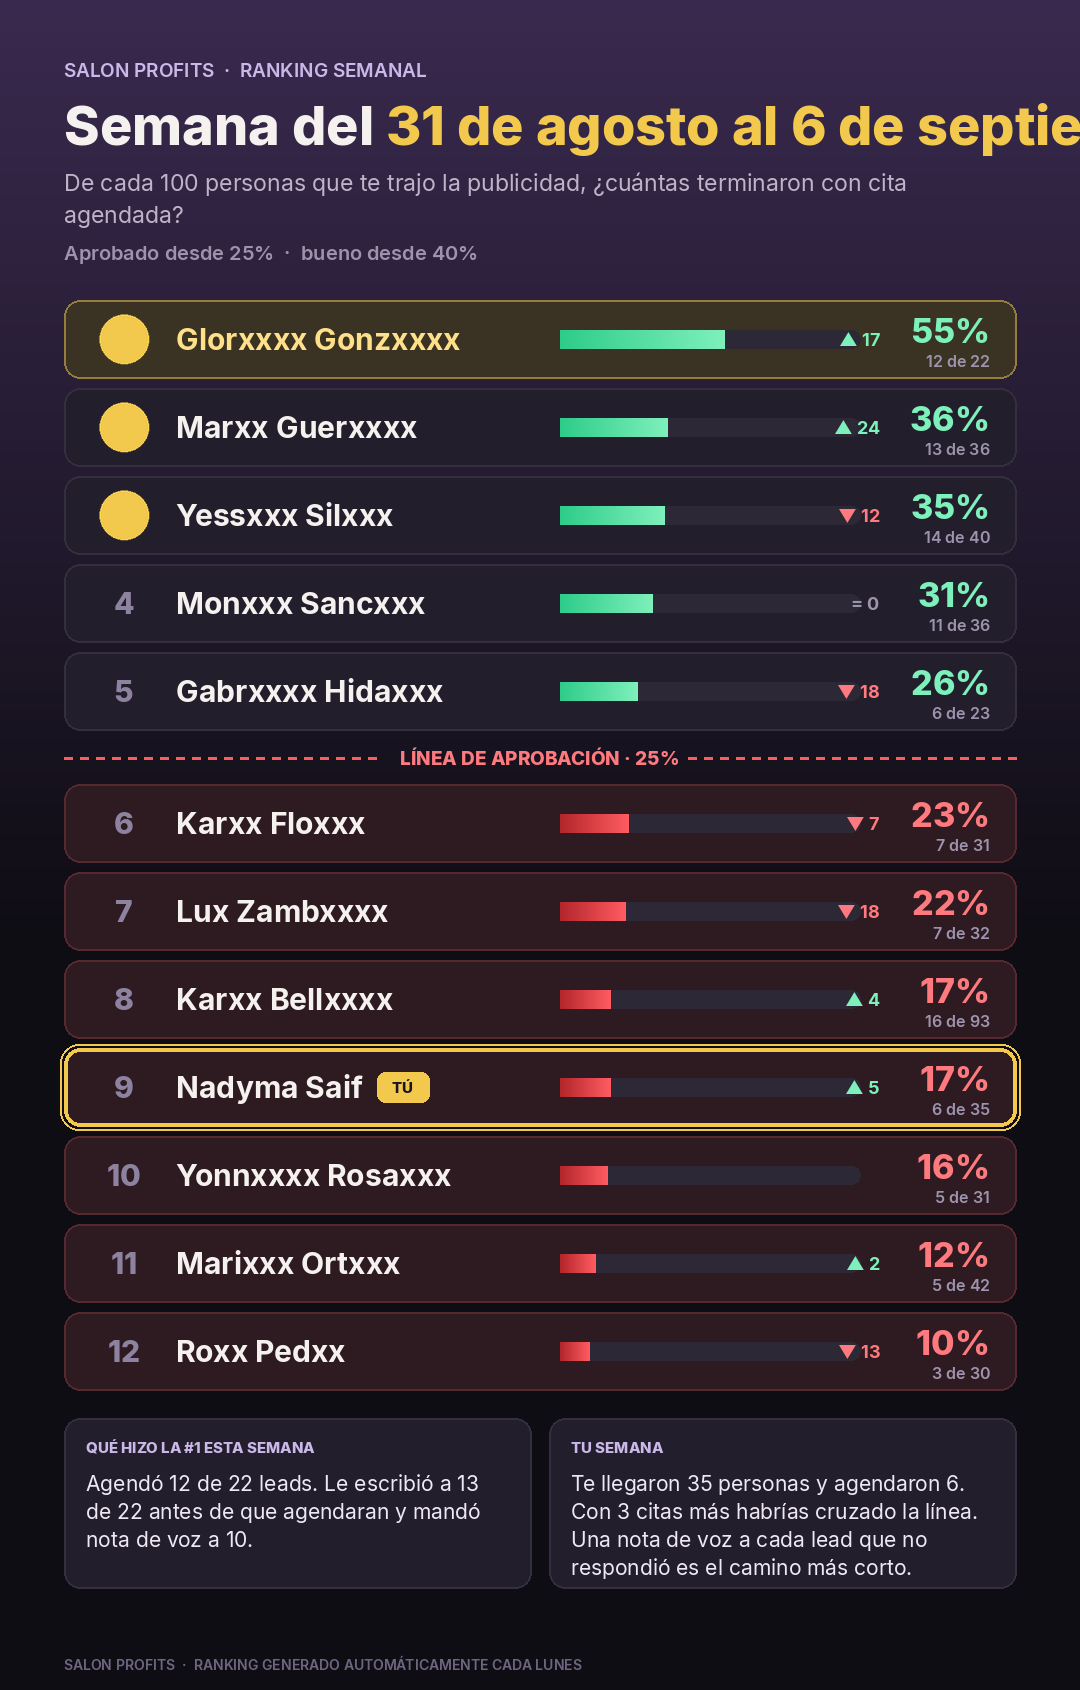
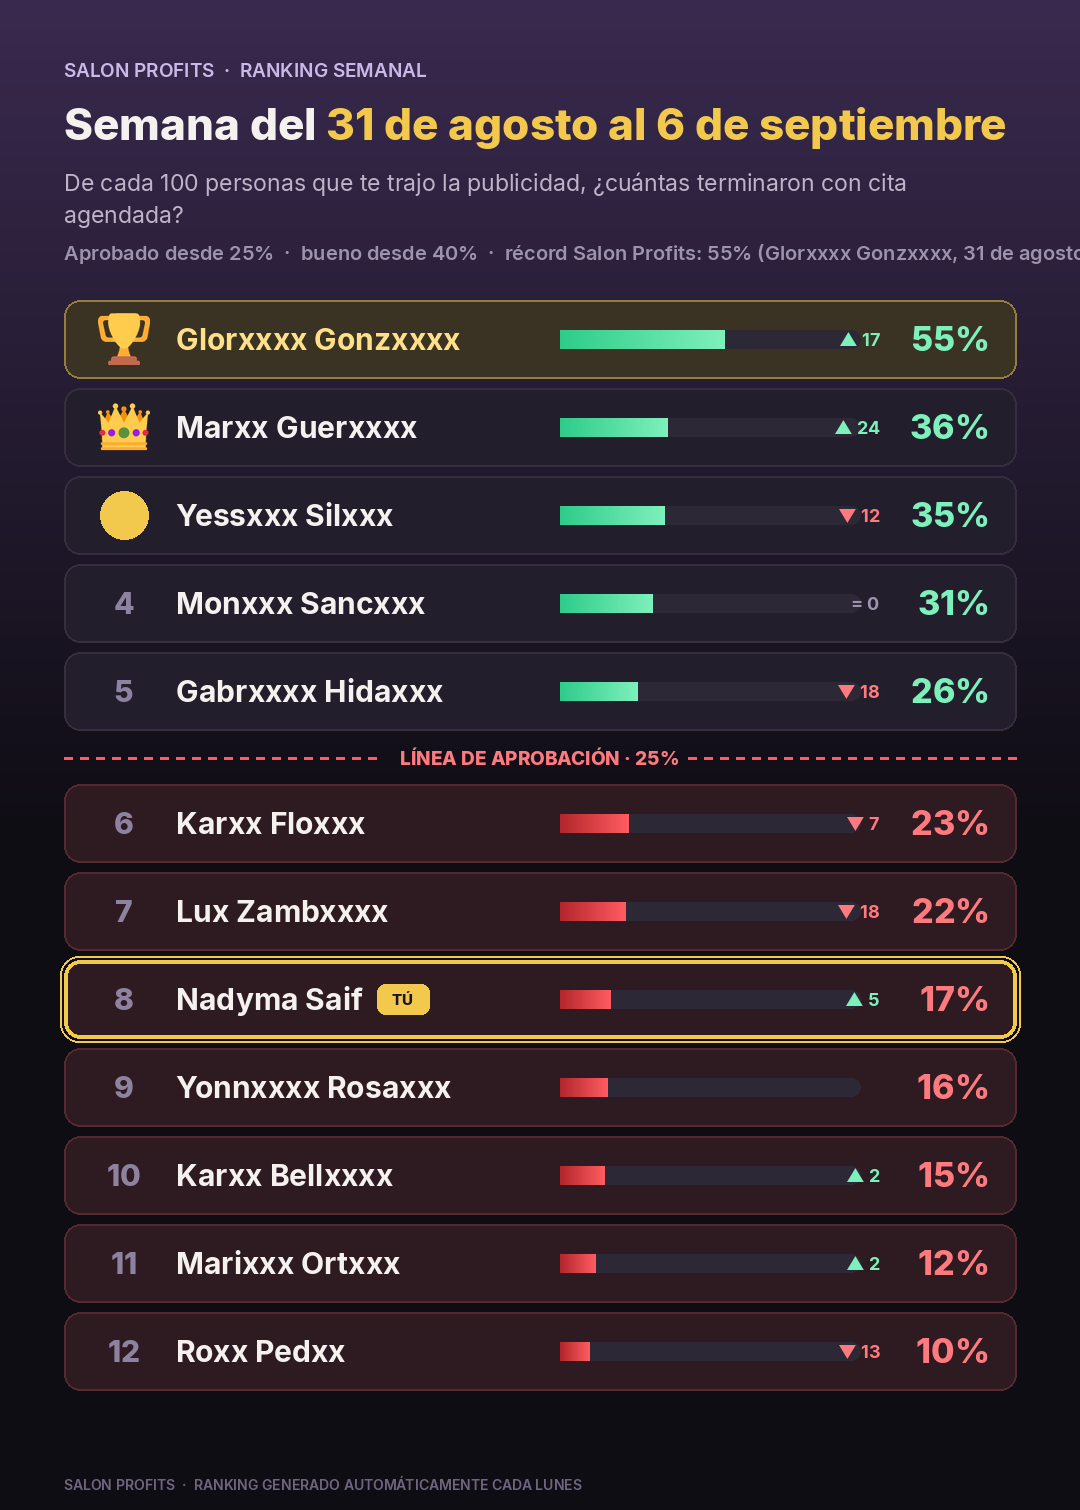
Ranking semana 31 de agosto al 6 de septiembre

diff --git a/_tools/ranking_semanal.py b/_tools/ranking_semanal.py
@@ -1,43 +1,30 @@
 #!/usr/bin/env python3
+"""Ranking semanal de agendamiento — Salon Profits. v5.
+
+Recibe los numeros ya medidos y produce un PNG por clienta destinataria, una
+imagen general para Jesus y Rossana, y resultado.json con puestos, zona y los
+textos de WhatsApp. No mide nada: los numeros llegan de gestion_semanal.py.
+
+Cambios v5 (medidos el 7 sep 2026, no estimados):
+  - fondo(): degradado por columna de 1 px estirada. Salida IDENTICA byte a
+    byte, 53x mas rapido (1.54 s -> 0.029 s para 13 imagenes).
+  - se elimino el bloque mask/tr/ImageChopsBox del dibujo de la barra: estaba
+    verificado como NO-OP (reservaba ~4 lienzos completos por barra y no
+    cambiaba un solo pixel). Salida IDENTICA, 8x mas rapido en esa seccion.
+  - --destinatarias: solo se renderiza PNG personal para quien de verdad lo
+    recibe. Las demas se siguen midiendo y rankeando (cuentan para el ranking y
+    para el record) pero no se publica una imagen con su nombre que nadie abre.
 """
-Ranking semanal de agendamiento — Salon Profits.
-
-Recibe los numeros ya medidos (una fila por clienta) y produce:
-  - una imagen PNG por clienta rankeable, con SU nombre completo y la marca TU
-    y las demas con el nombre a medias;
-  - una imagen general (nadie resaltado) para Jesus y Rossana;
-  - resultado.json con puestos, zona, quien se envia y quien no, y por que.
-
-No mide nada: los numeros llegan de gestion_semanal.py. No usa navegador:
-solo Pillow, asi corre en cualquier entorno.
-
-Uso:
-  ranking_semanal.py --datos ranking.json --etiqueta "1 al 7 de septiembre" \
-      --out /tmp/ranking/out --assets /ruta/assets [--record record.json]
-
-ranking.json = lista de objetos:
-  {"slug": "rosa-pedre", "nombre": "Rosa Pedre", "leads": 21, "agendaron": 4,
-   "tasa_ant": 15 | null, "gest_antes": 3 | null, "notas_voz": 0 | null,
-   "ventana_dias": 7}
-record.json (opcional) = {"tasa": 58, "nombre": "Karla Bellorin", "etiqueta": "3 al 9 ago"}
-
-Reglas (decididas el 7 sep 2026):
-  LINEA = 25   -> aprobado desde 25%. Verde arriba, rojo abajo. NO es la mitad
-                  del grupo: si todas estan mal, todas salen en rojo.
-  MIN_LEADS = 21 -> con menos leads en la ventana no se rankea ni se le envia.
-  Copa, corona y medalla SOLO en zona verde. Sin nadie en verde: copa desierta.
-  Nombres: primer nombre + primer apellido, cada palabra con su segunda mitad
-  tapada con x (mitad de palabra). La destinataria ve su nombre completo + TU.
-"""
-import argparse, hashlib, io, json, math, os, sys, urllib.request, zipfile
+import argparse, base64, hashlib, io, json, math, os, sys, urllib.request, zipfile
 from PIL import Image, ImageDraw, ImageFont
+
+VERSION = 5
 
 LINEA = 25
 BUENO = 40
 MIN_LEADS = 21
 W = 1080
 
-# --- colores -----------------------------------------------------------------
 BG_TOP, BG_BOT = (58, 42, 79), (15, 13, 20)
 INK, MUT, LAV = (244, 241, 238), (157, 147, 173), (201, 184, 232)
 GOLD, GOLD_D = (242, 201, 76), (26, 21, 34)
@@ -48,12 +35,15 @@ ROW_BG, ROW_LINE = (35, 30, 44), (52, 46, 62)
 ROW_BAD_BG, ROW_BAD_LINE = (46, 26, 33), (88, 40, 48)
 TRACK = (44, 40, 54)
 
-ICONOS = {1: "1f3c6", 2: "1f451", 3: "1f396"}   # trofeo, corona, medalla (Twemoji)
-CDN = "https://cdn.jsdelivr.net/gh/twitter/twemoji@14.0.2/assets/72x72/{}.png"
+ICONOS = {1: "1f3c6", 2: "1f451", 3: "1f396"}
 INTER_ZIP = "https://github.com/rsms/inter/releases/download/v4.0/Inter-4.0.zip"
+ICONOS_B64 = {
[3 lines of base64/hex data omitted]
+}
 
 
-# --- assets ------------------------------------------------------------------
 def asegurar_assets(d):
     os.makedirs(d, exist_ok=True)
     faltan = [w for w in ("Bold", "ExtraBold", "SemiBold", "Regular")
@@ -70,11 +60,8 @@ def asegurar_assets(d):
             print(f"aviso: sin Inter ({e}); uso la fuente por defecto", file=sys.stderr)
     for cod in ICONOS.values():
         p = os.path.join(d, f"{cod}.png")
-        if not os.path.exists(p):
-            try:
-                open(p, "wb").write(urllib.request.urlopen(CDN.format(cod), timeout=30).read())
-            except Exception as e:
-                print(f"aviso: sin icono {cod} ({e})", file=sys.stderr)
+        if not os.path.exists(p) or os.path.getsize(p) == 0:
+            open(p, "wb").write(base64.b64decode(ICONOS_B64[cod]))
 
 
 def fuente(d, peso, tam):
@@ -89,14 +76,15 @@ def fuente(d, peso, tam):
 
 def icono(d, puesto, tam):
     p = os.path.join(d, f"{ICONOS[puesto]}.png")
-    if os.path.exists(p):
+    try:
         return Image.open(p).convert("RGBA").resize((tam, tam), Image.LANCZOS)
+    except Exception:
+        pass
     im = Image.new("RGBA", (tam, tam), (0, 0, 0, 0))
     ImageDraw.Draw(im).ellipse([2, 2, tam - 2, tam - 2], fill=GOLD)
     return im
 
 
-# --- nombres -----------------------------------------------------------------
 def tapar(pal):
     n = len(pal)
     k = math.ceil(n / 2)
@@ -112,7 +100,6 @@ def nombre_tapado(nombre):
     return tapar(pal[0]) + " " + tapar(pal[1])
 
 
-# --- ranking -----------------------------------------------------------------
 def rankear(filas):
     rank, fuera = [], []
     for f in filas:
@@ -130,16 +117,15 @@ def rankear(filas):
     return rank, fuera
 
 
-# --- dibujo ------------------------------------------------------------------
 def fondo(h):
-    im = Image.new("RGB", (W, h), BG_BOT)
-    px = im.load()
+    """Degradado vertical. Misma formula que v4; una columna de 1 px estirada.
+    Verificado byte a byte contra el bucle por pixel de v4."""
+    col = Image.new("RGB", (1, h), BG_BOT)
+    px = col.load()
     for y in range(h):
         t = min(1.0, y / (h * 0.55))
-        c = tuple(int(BG_TOP[i] * (1 - t) + BG_BOT[i] * t) for i in range(3))
-        for x in range(W):
-            px[x, y] = c
-    return im
+        px[0, y] = tuple(int(BG_TOP[i] * (1 - t) + BG_BOT[i] * t) for i in range(3))
+    return col.resize((W, h), Image.NEAREST)
 
 
 def texto(dr, xy, s, f, fill, anchor="la"):
@@ -164,23 +150,26 @@ def envolver(f, s, maxw):
     return out
 
 
-def dibujar(rank, etiqueta, me_slug, assets, record=None, ventana_dias=7):
+def dibujar(rank, etiqueta, me_slug, assets, record=None, ventana_dias=7, tapar_nombres=True):
     F = lambda p, t: fuente(assets, p, t)
     n = len(rank)
     ROW_H, GAP = 78, 10
     top_h = 300
     linea_h = 44
-    foot_h = 250 if me_slug else 150
+    foot_h = 70
     h = top_h + n * (ROW_H + GAP) + linea_h + foot_h + 40
     im = fondo(h)
     dr = ImageDraw.Draw(im)
 
-    # cabecera
     texto(dr, (64, 58), "SALON PROFITS  ·  RANKING SEMANAL", F("SemiBold", 19), LAV)
     tit = "Semana del " if ventana_dias == 7 else "Últimas 2 semanas · "
-    f_h1 = F("ExtraBold", 54)
-    texto(dr, (64, 92), tit, f_h1, INK)
-    texto(dr, (64 + ancho(f_h1, tit), 92), etiqueta, f_h1, GOLD)
+    tam = 54
+    while tam > 30 and ancho(F("ExtraBold", tam), tit + etiqueta) > W - 128:
+        tam -= 2
+    f_h1 = F("ExtraBold", tam)
+    yt = 92 + (54 - tam) // 2
+    texto(dr, (64, yt), tit, f_h1, INK)
+    texto(dr, (64 + ancho(f_h1, tit), yt), etiqueta, f_h1, GOLD)
     f_sub = F("Regular", 23)
     sub = "De cada 100 personas que te trajo la publicidad, ¿cuántas terminaron con cita agendada?"
     y = 168
@@ -192,7 +181,6 @@ def dibujar(rank, etiqueta, me_slug, assets, record=None, ventana_dias=7):
         lin += f"  ·  récord Salon Profits: {record['tasa']}% ({nombre_tapado(record.get('nombre',''))}, {record.get('etiqueta','')})"
     texto(dr, (64, y + 8), lin, f_m, MUT)
 
-    # copa desierta
     y = top_h
     if n and not any(r["verde"] for r in rank):
         dr.rounded_rectangle([64, y - 14, W - 64, y + 40], 14, fill=(60, 30, 36), outline=(120, 50, 58), width=2)
@@ -204,7 +192,6 @@ def dibujar(rank, etiqueta, me_slug, assets, record=None, ventana_dias=7):
     linea_dibujada = False
     for r in rank:
         if not r["verde"] and not linea_dibujada:
-            # linea de aprobacion
             cy = y + linea_h // 2 - 4
             lab = f"LÍNEA DE APROBACIÓN · {LINEA}%"
             f_l = F("ExtraBold", 19)
@@ -227,23 +214,20 @@ def dibujar(rank, etiqueta, me_slug, assets, record=None, ventana_dias=7):
             dr.rounded_rectangle([60, y - 4, W - 60, y + ROW_H + 4], 19, outline=(242, 201, 76, 90), width=2)
 
         cy = y + ROW_H // 2
-        # puesto / premio
         if r["premio"]:
             ic = icono(assets, r["premio"], 52)
             im.paste(ic, (98, cy - 26), ic)
         else:
             texto(dr, (124, cy), str(r["puesto"]), f_pos, (141, 131, 160), "mm")
 
-        # nombre
         col_nom = (255, 224, 138) if r["premio"] == 1 else INK
-        nom = r["nombre"] if es_me else nombre_tapado(r["nombre"])
+        nom = r["nombre"] if (es_me or not tapar_nombres) else nombre_tapado(r["nombre"])
         texto(dr, (176, cy), nom, f_nom, col_nom, "lm")
         if es_me:
             x0 = 176 + ancho(f_nom, nom) + 14
             dr.rounded_rectangle([x0, cy - 15, x0 + 52, cy + 15], 8, fill=GOLD)
             texto(dr, (x0 + 26, cy), "TÚ", f_tag, GOLD_D, "mm")
 
-        # barra
         bx0, bx1 = 560, 860
         dr.rounded_rectangle([bx0, cy - 9, bx1, cy + 9], 9, fill=TRACK)
         wpx = max(18, int((bx1 - bx0) * min(r["tasa"], 100) / 100))
@@ -252,18 +236,14 @@ def dibujar(rank, etiqueta, me_slug, assets, record=None, ventana_dias=7):
             t = i / max(1, wpx - 1)
             c = tuple(int(c1[k] * (1 - t) + c2[k] * t) for k in range(3))
             dr.line([bx0 + i, cy - 9, bx0 + i, cy + 9], fill=c)
-        # tapar esquinas con la forma redondeada
-        mask = Image.new("L", (W, h), 0)
-        ImageDraw.Draw(mask).rounded_rectangle([bx0, cy - 9, bx0 + wpx, cy + 9], 9, fill=255)
-        tr = Image.new("RGB", (W, h), TRACK)
-        tr.paste(im, (0, 0), mask)
-        im.paste(tr, (0, 0), ImageChopsBox(mask, bx0, cy - 9, bx1, cy + 9))
-        dr = ImageDraw.Draw(im)
+        # v4 tenia aqui un bloque mask/tr/ImageChopsBox verificado como NO-OP: se elimino.
 
-        # porcentaje + delta
         col_p = VERDE2 if r["verde"] else ROJO_TXT
-        texto(dr, (W - 90, cy - 8), f"{r['tasa']}%", f_pct, col_p, "rm")
-        texto(dr, (W - 90, cy + 22), f"{r['agendaron']} de {r['leads']}", f_small, MUT, "rm")
+        if tapar_nombres:
+            texto(dr, (W - 90, cy), f"{r['tasa']}%", f_pct, col_p, "rm")
+        else:
+            texto(dr, (W - 90, cy - 8), f"{r['tasa']}%", f_pct, col_p, "rm")
+            texto(dr, (W - 90, cy + 22), f"{r['agendaron']} de {r['leads']}", f_small, MUT, "rm")
         ta = r.get("tasa_ant")
         if ta is not None:
             d = r["tasa"] - int(ta)
@@ -271,55 +251,29 @@ def dibujar(rank, etiqueta, me_slug, assets, record=None, ventana_dias=7):
             texto(dr, (W - 200, cy), s, f_delta, VERDE2 if d > 0 else ROJO_TXT if d < 0 else MUT, "rm")
         y += ROW_H + GAP
 
-    # pie
-    y += 18
-    f_bt, f_bp = F("ExtraBold", 15), F("Regular", 21)
-    top = rank[0] if rank else None
-    if me_slug:
-        me = next((r for r in rank if r["slug"] == me_slug), None)
-        cajas = []
-        if top:
-            cajas.append(("QUÉ HIZO LA #1 ESTA SEMANA", caja_top(top)))
-        if me:
-            cajas.append(("TU SEMANA", caja_me(me)))
-        cw = (W - 128 - 18) // 2 if len(cajas) == 2 else W - 128
-        x = 64
-        for t, p in cajas:
-            dr.rounded_rectangle([x, y, x + cw, y + 170], 16, fill=(35, 30, 44), outline=(52, 46, 62), width=2)
-            texto(dr, (x + 22, y + 20), t, f_bt, LAV)
-            yy = y + 52
-            for l in envolver(f_bp, p, cw - 44)[:4]:
-                texto(dr, (x + 22, yy), l, f_bp, (238, 232, 245)); yy += 28
-            x += cw + 18
-        y += 190
-    else:
-        f_g = F("Regular", 20)
-        texto(dr, (64, y), f"Versión general · {n} clientas rankeadas · sin resaltar a nadie", f_g, MUT)
-        y += 60
     texto(dr, (64, h - 34), "SALON PROFITS  ·  RANKING GENERADO AUTOMÁTICAMENTE CADA LUNES", F("SemiBold", 14), (111, 101, 128))
     return im
 
 
-def ImageChopsBox(mask, x0, y0, x1, y1):
-    """Mascara limitada a la caja de la barra: fuera de ahi no toca nada."""
-    m = Image.new("L", mask.size, 0)
-    m.paste(mask.crop((x0, y0, x1 + 1, y1 + 1)), (x0, y0))
-    return m
+def pct(a, b):
+    return round(100 * a / b) if b else 0
 
 
-def caja_top(t):
-    s = f"Agendó {t['agendaron']} de {t['leads']} leads."
+def texto_top(t, tu=False):
     ga, nv = t.get("gest_antes"), t.get("notas_voz")
+    suj = "Fuiste la #1 esta semana: " if tu else "Qué hizo la #1 esta semana: "
     if ga is not None:
-        s += f" Le escribió a {ga} de {t['leads']} antes de que agendaran"
-        s += f" y mandó nota de voz a {nv}." if nv is not None else "."
+        s = suj + ("le escribiste" if tu else "le escribió") + f" al {pct(ga, t['leads'])}% de " + ("tus" if tu else "sus") + " leads antes de que agendaran"
+        if nv is not None:
+            s += " y " + ("les mandaste" if tu else "les mandó") + f" nota de voz al {pct(nv, t['leads'])}%"
+        s += f". Así " + ("cerraste" if tu else "cerró") + f" con {t['tasa']}% de agendamiento."
     else:
-        s += " Pregunta gancho y nota de voz el mismo día que escriben: lo que enseñamos en la clase de seguimiento."
+        s = suj + ("cerraste" if tu else "cerró") + f" con {t['tasa']}% de agendamiento. Pregunta gancho y nota de voz el mismo día que escriben: lo que enseñamos en la clase de seguimiento."
     return s
 
 
-def caja_me(m):
-    s = f"Te llegaron {m['leads']} personas y agendaron {m['agendaron']}."
+def texto_me(m):
+    s = f"Tu semana: te llegaron {m['leads']} personas y agendaron {m['agendaron']}."
     falta = math.ceil(LINEA * m["leads"] / 100) - m["agendaron"]
     if m["tasa"] >= BUENO:
         s += " Estás en la zona buena. Sostenlo: la semana que viene te comparamos contigo misma."
@@ -327,20 +281,36 @@ def caja_me(m):
         falta2 = math.ceil(BUENO * m["leads"] / 100) - m["agendaron"]
         s += f" Pasaste la línea. Con {falta2} cita{'s' if falta2 != 1 else ''} más habrías llegado al {BUENO}%."
     else:
-        s += f" Con {falta} cita{'s' if falta != 1 else ''} más habrías cruzado la línea. Una nota de voz a cada lead que no respondió es el camino más corto."
+        s += f" Con {falta} cita{'s' if falta != 1 else ''} más habrías cruzado la línea del {LINEA}%. Una nota de voz a cada lead que no respondió es el camino más corto."
     return s
 
 
-# --- main --------------------------------------------------------------------
+def mensaje(r, rank, etiqueta, url, ventana_dias=7):
+    pila = r["nombre"].split()[0] if r["nombre"].split() else "hola"
+    cuando = f"de la semana del {etiqueta}" if ventana_dias == 7 else f"de las últimas 2 semanas ({etiqueta})"
+    top = rank[0]
+    partes = [
+        f"Hola {pila}, este es el ranking de agendamiento de Salon Profits {cuando}. "
+        f"Estás en el puesto {r['puesto']} de {len(rank)} con {r['tasa']}% de agendamiento ({r['agendaron']} de {r['leads']}).",
+        texto_top(top, tu=(top["slug"] == r["slug"])),
+        texto_me(r),
+        f"Si la imagen no carga, ábrela aquí: {url}",
+    ]
+    return "\n\n".join(partes)
+
+
 def main():
     p = argparse.ArgumentParser()
     p.add_argument("--datos", required=True)
-    p.add_argument("--etiqueta", required=True, help='ej. "1 al 7 de septiembre"')
+    p.add_argument("--etiqueta", required=True)
     p.add_argument("--out", required=True)
     p.add_argument("--assets", required=True)
     p.add_argument("--record")
     p.add_argument("--ventana-dias", type=int, default=7)
-    p.add_argument("--sal", default="", help="sal para el hash del nombre de archivo (URL no adivinable)")
+    p.add_argument("--sal", default="")
+    p.add_argument("--url-base", default="")
+    p.add_argument("--destinatarias", default="",
+                   help="slugs separados por coma que SI reciben WhatsApp. Vacio = todas.")
     a = p.parse_args()
 
     asegurar_assets(a.assets)
@@ -348,23 +318,34 @@ def main():
     filas = json.load(open(a.datos))
     record = json.load(open(a.record)) if a.record and os.path.exists(a.record) else None
     rank, fuera = rankear(filas)
+    dest = {s.strip() for s in a.destinatarias.split(",") if s.strip()}
 
     def archivo(slug):
         h = hashlib.sha256(f"{a.sal}|{slug}".encode()).hexdigest()[:8]
         return f"{slug}-{h}.png"
 
-    salida = {"rankeadas": rank, "sin_minimo": fuera, "archivos": {}, "ventana_dias": a.ventana_dias}
+    salida = {"rankeadas": rank, "sin_minimo": fuera, "archivos": {}, "mensajes": {},
+              "ventana_dias": a.ventana_dias, "version": VERSION, "sin_imagen": []}
     if rank:
-        dibujar(rank, a.etiqueta, None, a.assets, record, a.ventana_dias).save(os.path.join(a.out, archivo("general")), optimize=True)
+        dibujar(rank, a.etiqueta, None, a.assets, record, a.ventana_dias, tapar_nombres=False).save(
+            os.path.join(a.out, archivo("general")), optimize=True)
         salida["archivos"]["general"] = archivo("general")
         for r in rank:
+            if dest and r["slug"] not in dest:
+                salida["sin_imagen"].append(r["slug"])
+                continue
             nombre = archivo(r["slug"])
-            dibujar(rank, a.etiqueta, r["slug"], a.assets, record, a.ventana_dias).save(os.path.join(a.out, nombre), optimize=True)
+            dibujar(rank, a.etiqueta, r["slug"], a.assets, record, a.ventana_dias).save(
+                os.path.join(a.out, nombre), optimize=True)
             salida["archivos"][r["slug"]] = nombre
+            salida["mensajes"][r["slug"]] = mensaje(r, rank, a.etiqueta, f"{a.url_base}/{nombre}", a.ventana_dias)
     json.dump(salida, open(os.path.join(a.out, "resultado.json"), "w"), ensure_ascii=False, indent=2)
-    print(f"rankeadas {len(rank)} · sin minimo {len(fuera)} · imagenes {len(salida['archivos'])}")
+    print(f"v{VERSION} · rankeadas {len(rank)} · sin minimo {len(fuera)} · imagenes {len(salida['archivos'])}"
+          + (f" · sin imagen (no reciben) {len(salida['sin_imagen'])}" if salida["sin_imagen"] else ""))
     for r in rank:
-        print(f"  {r['puesto']:>2}. {r['nombre']:<24} {r['tasa']:>3}%  {r['agendaron']}/{r['leads']}  {'verde' if r['verde'] else 'rojo'}{'  premio ' + str(r['premio']) if r['premio'] else ''}")
+        marca = "" if (not dest or r["slug"] in dest) else "  [no recibe]"
+        print(f"  {r['puesto']:>2}. {r['nombre']:<24} {r['tasa']:>3}%  {r['agendaron']}/{r['leads']}  "
+              f"{'verde' if r['verde'] else 'rojo'}{'  premio ' + str(r['premio']) if r['premio'] else ''}{marca}")
     for f in fuera:
         print(f"   -  {f['nombre']:<24} fuera: {f['motivo']}")
 
